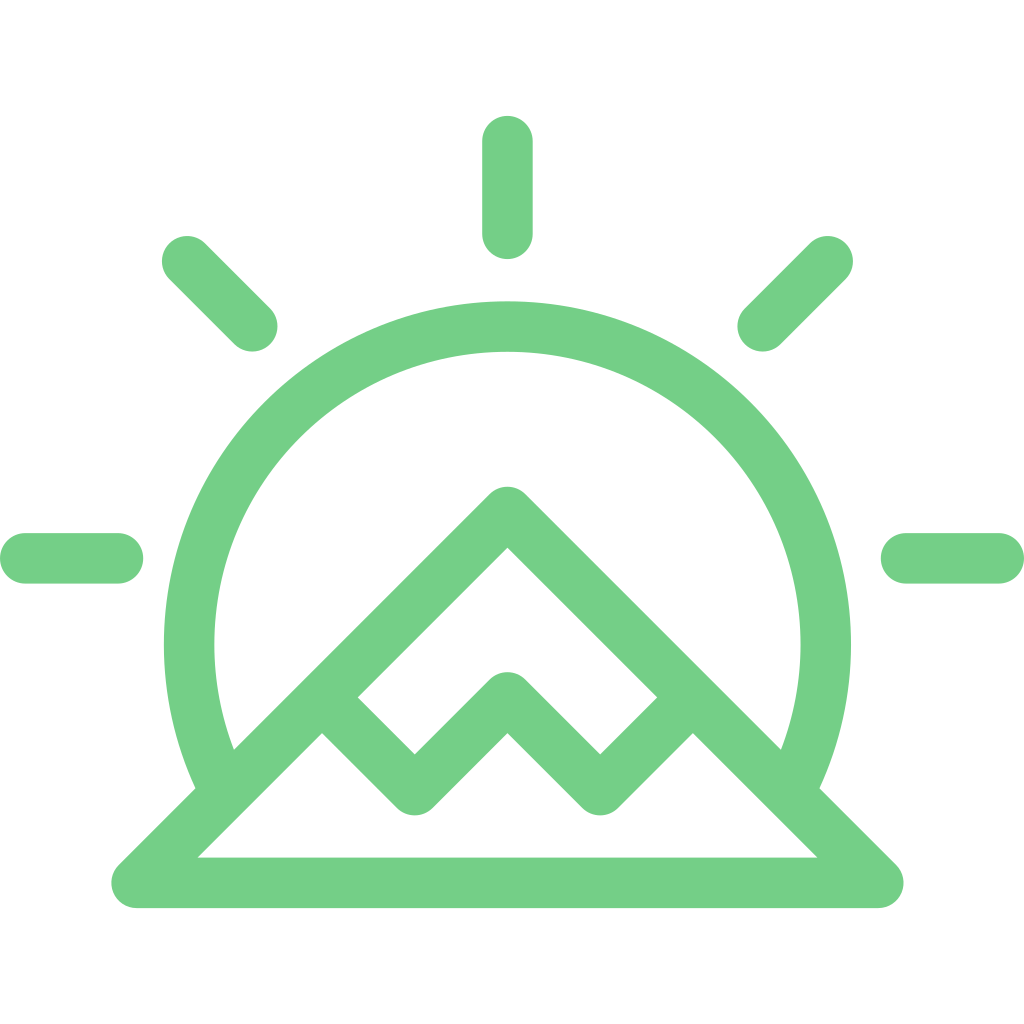
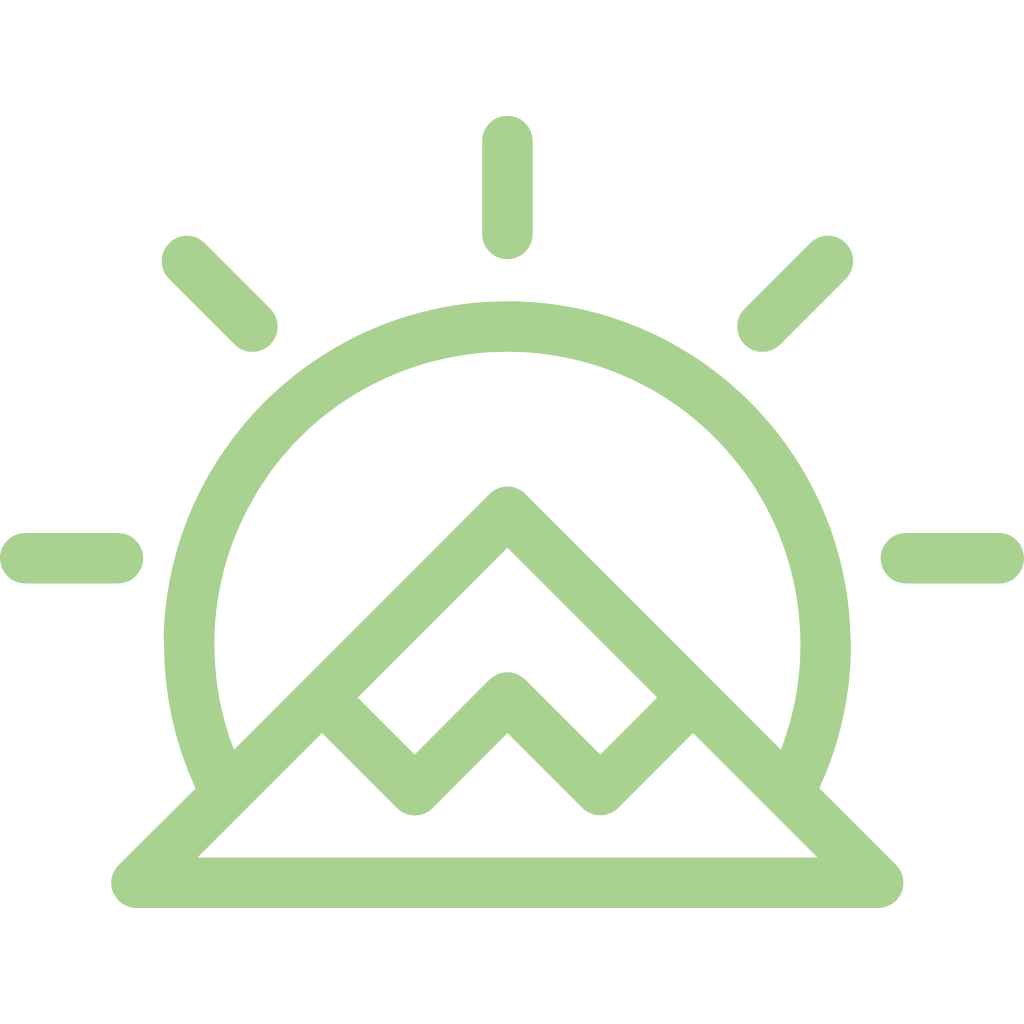
"blue light filter"

diff --git a/tailwind.config.js b/tailwind.config.js
@@ -8,14 +8,14 @@ export default {
         "main-2": "#56a644",
         "main-1": "#42823f",
         "main-0": "#336037",
-        primary: "rgb(152 213 164)",
-        "on-primary": "rgb(0 57 26)",
-        "primary-container": "rgb(22 81 44)",
-        "on-primary-container": "rgb(179 241 191)",
-        background: "rgb(16 21 16)",
-        "on-background": "rgb(223 228 220)",
-        "surface-container-low": "rgb(24 29 24)",
-        "surface-container-high": "rgb(38 43 38)",
+        primary: "rgb(169 210 145)",
+        "on-primary": "rgb(23 56 7)",
+        "primary-container": "rgb(45 79 28)",
+        "on-primary-container": "rgb(197 239 171)",
+        background: "rgb(17 20 15)",
+        "on-background": "rgb(225 228 217)",
+        "surface-container-low": "rgb(25 29 22)",
+        "surface-container-high": "rgb(40 43 36)",
       },
       fontFamily: {
         sans: ["Inter", "Roboto", "system-ui", "sans-serif"],
